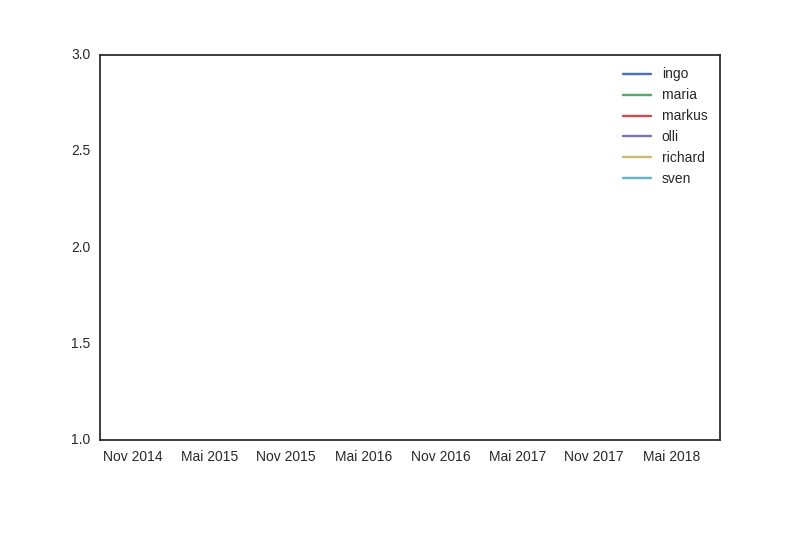
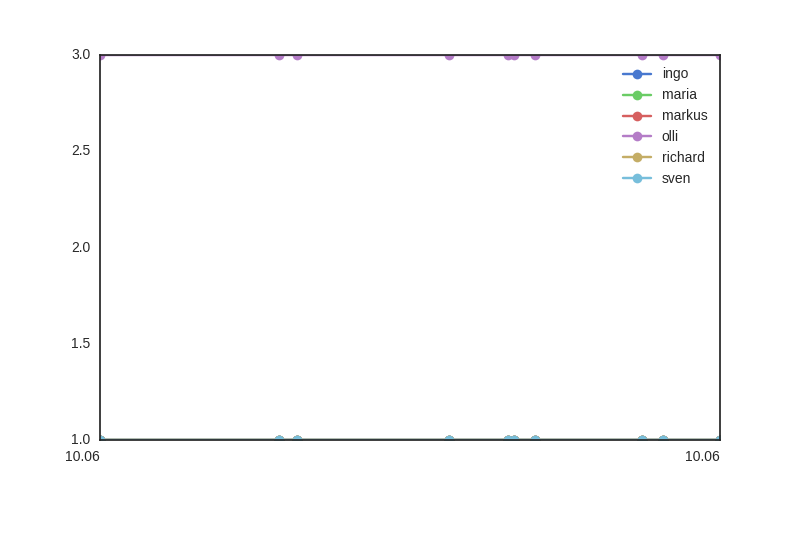
...

diff --git a/tippspiel.py b/tippspiel.py
@@ -5,7 +5,9 @@ from collections import defaultdict
 import pandas as pd
 import datetime
 import matplotlib.pyplot as plt
+import matplotlib.dates as dates
 import seaborn as sns
+from itertools import repeat
 
 DATA_FILE = "saure_gurke.pkl"
 
@@ -103,7 +105,8 @@ def update_data():
     sns.set_style('white')
     series = pd.Series(add_rounds(get_all_rounds()))
     series.name = datetime.datetime.now()
-    ax = series.plot(kind="bar", rot=0, sort_columns=True)
+    colors = sns.color_palette("muted", len(series))
+    ax = series.plot(kind="bar", rot=0, sort_columns=True, color=colors)
     fig = ax.get_figure()
     fig.savefig("standings.png")
 
@@ -114,11 +117,14 @@ def update_data():
 
     df = df.append(series)
 
-    ax = df.plot(sort_columns=True, rot=0)
+    ax = df.plot(sort_columns=True, rot=0, color=colors, marker='o')
+    ax.xaxis.set_major_locator(dates.WeekdayLocator(byweekday=range(1, 8), interval=1))
+    ax.xaxis.set_major_formatter(dates.DateFormatter('%d.%m'))
     fig = ax.get_figure()
     fig.savefig("standings_vs_time.png")
 
     df.to_pickle(DATA_FILE)
+    print(df)
 
 
 
